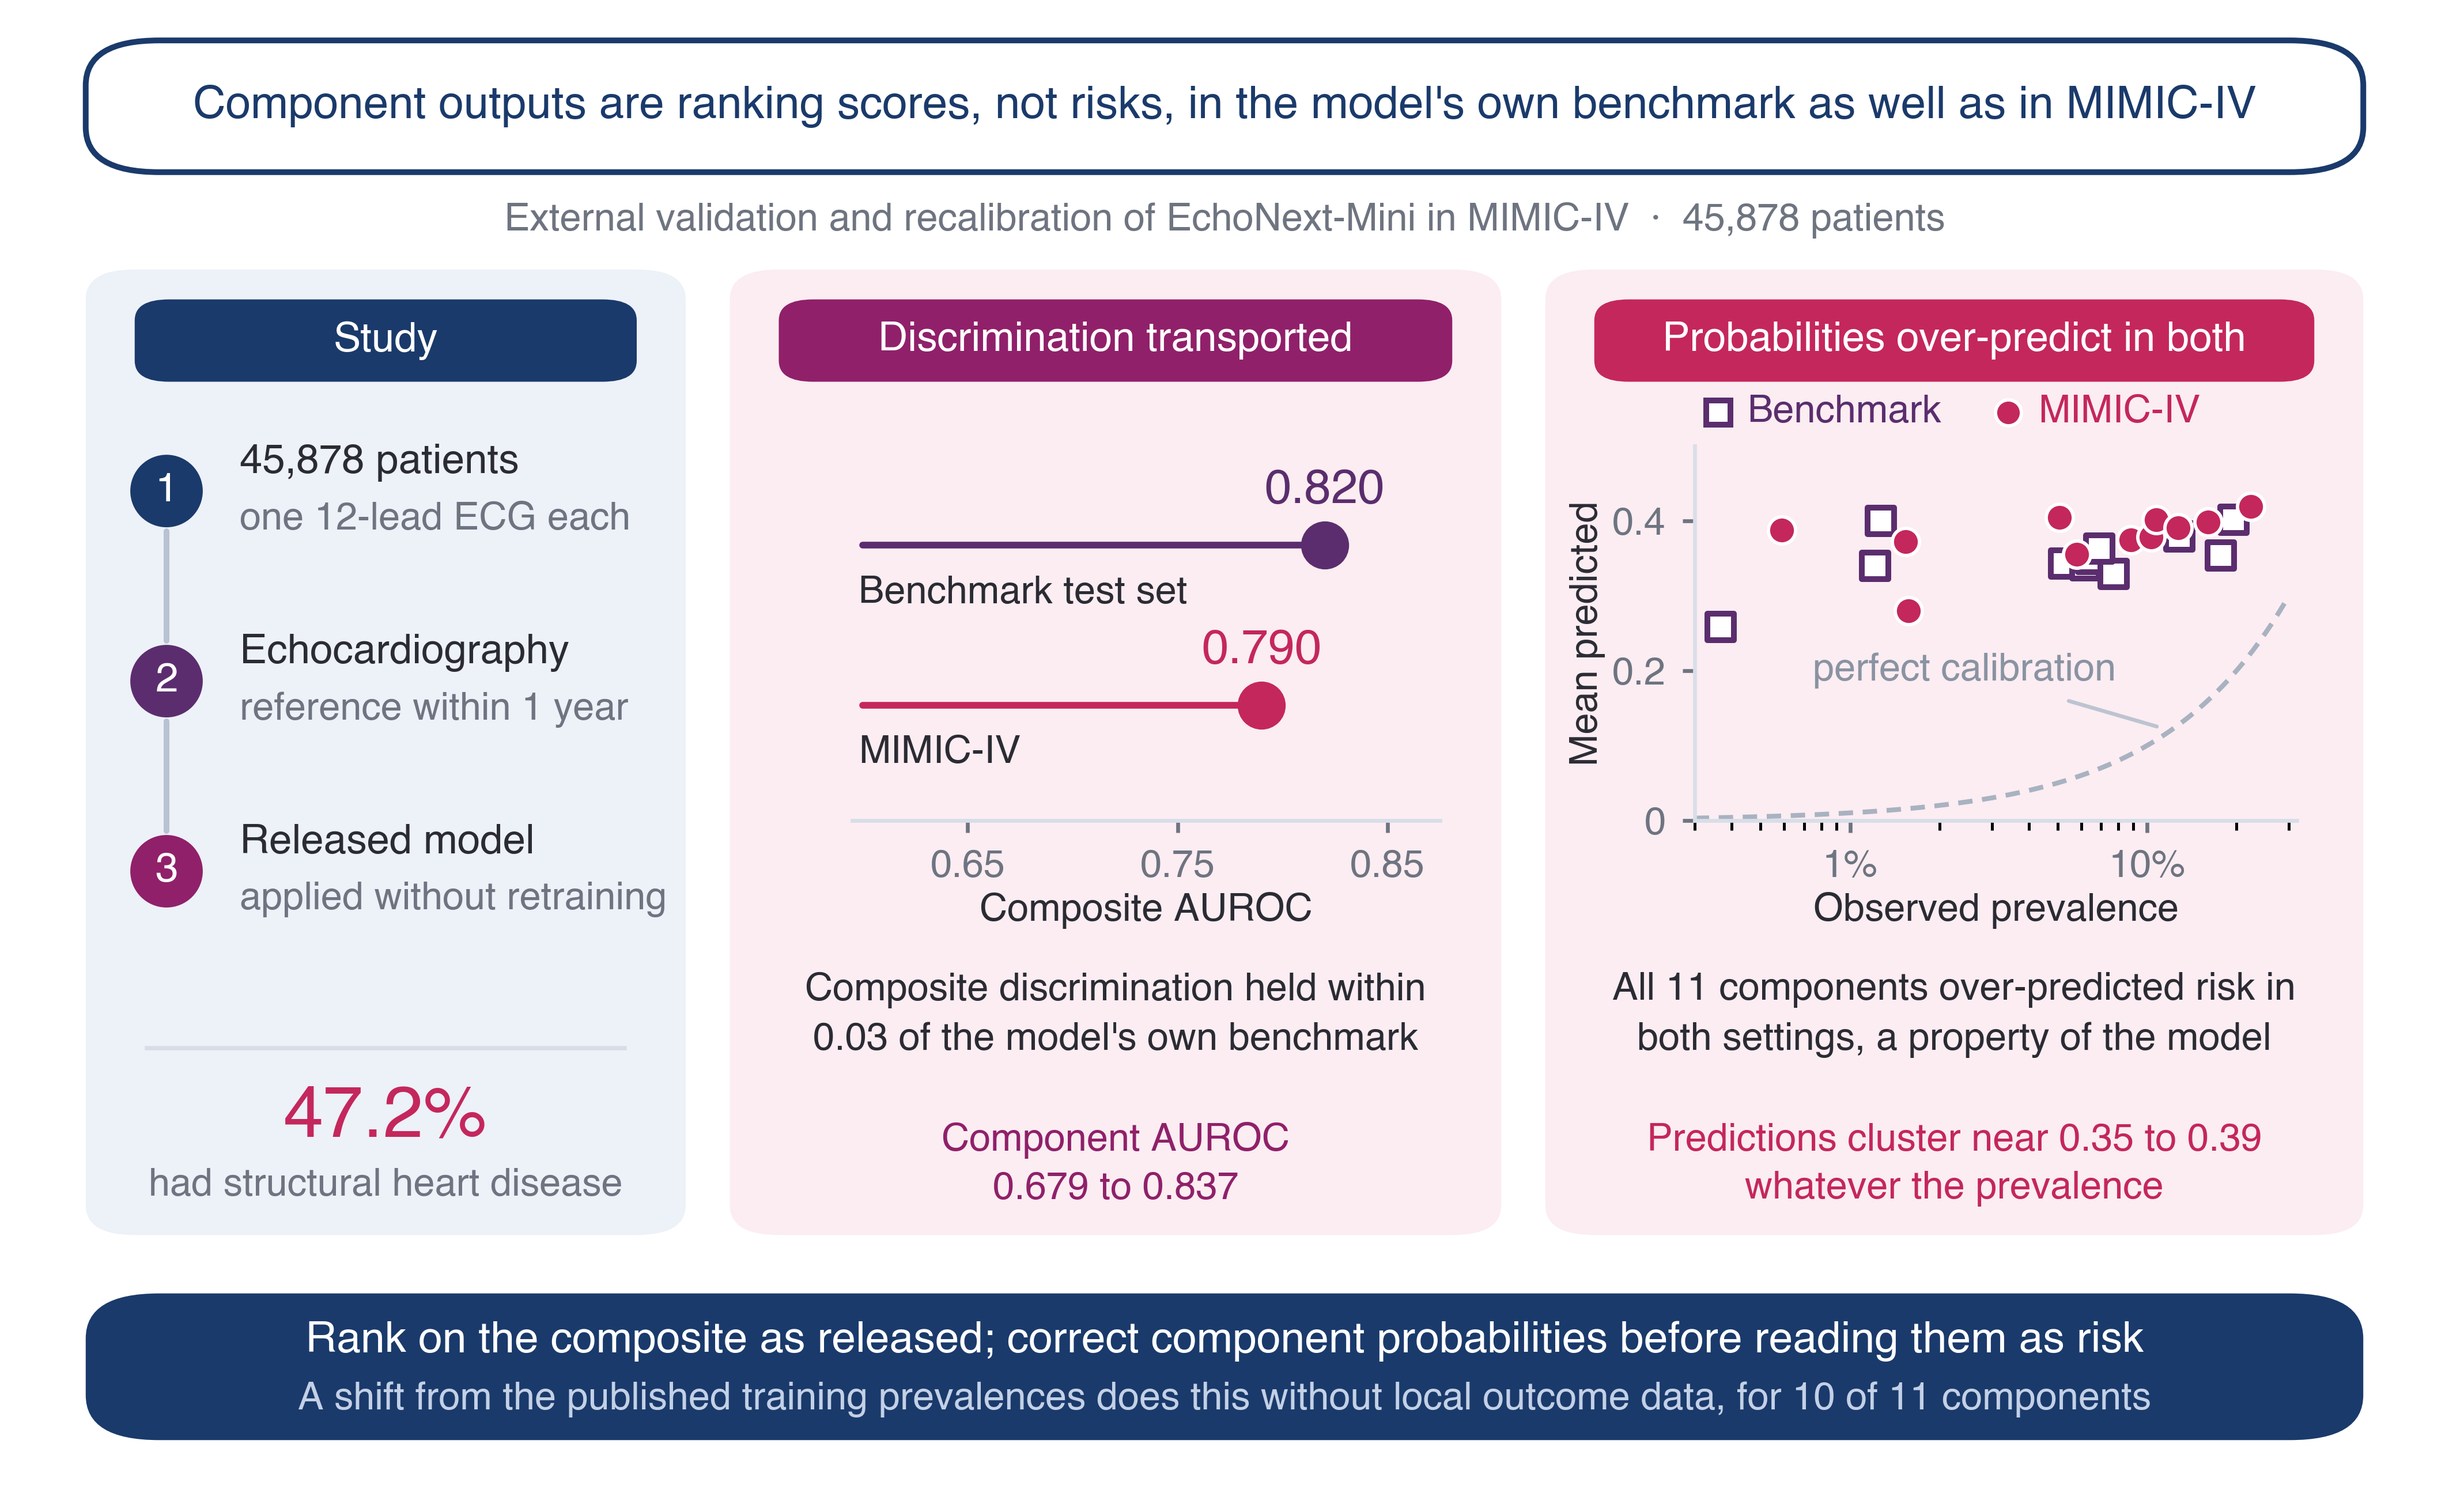
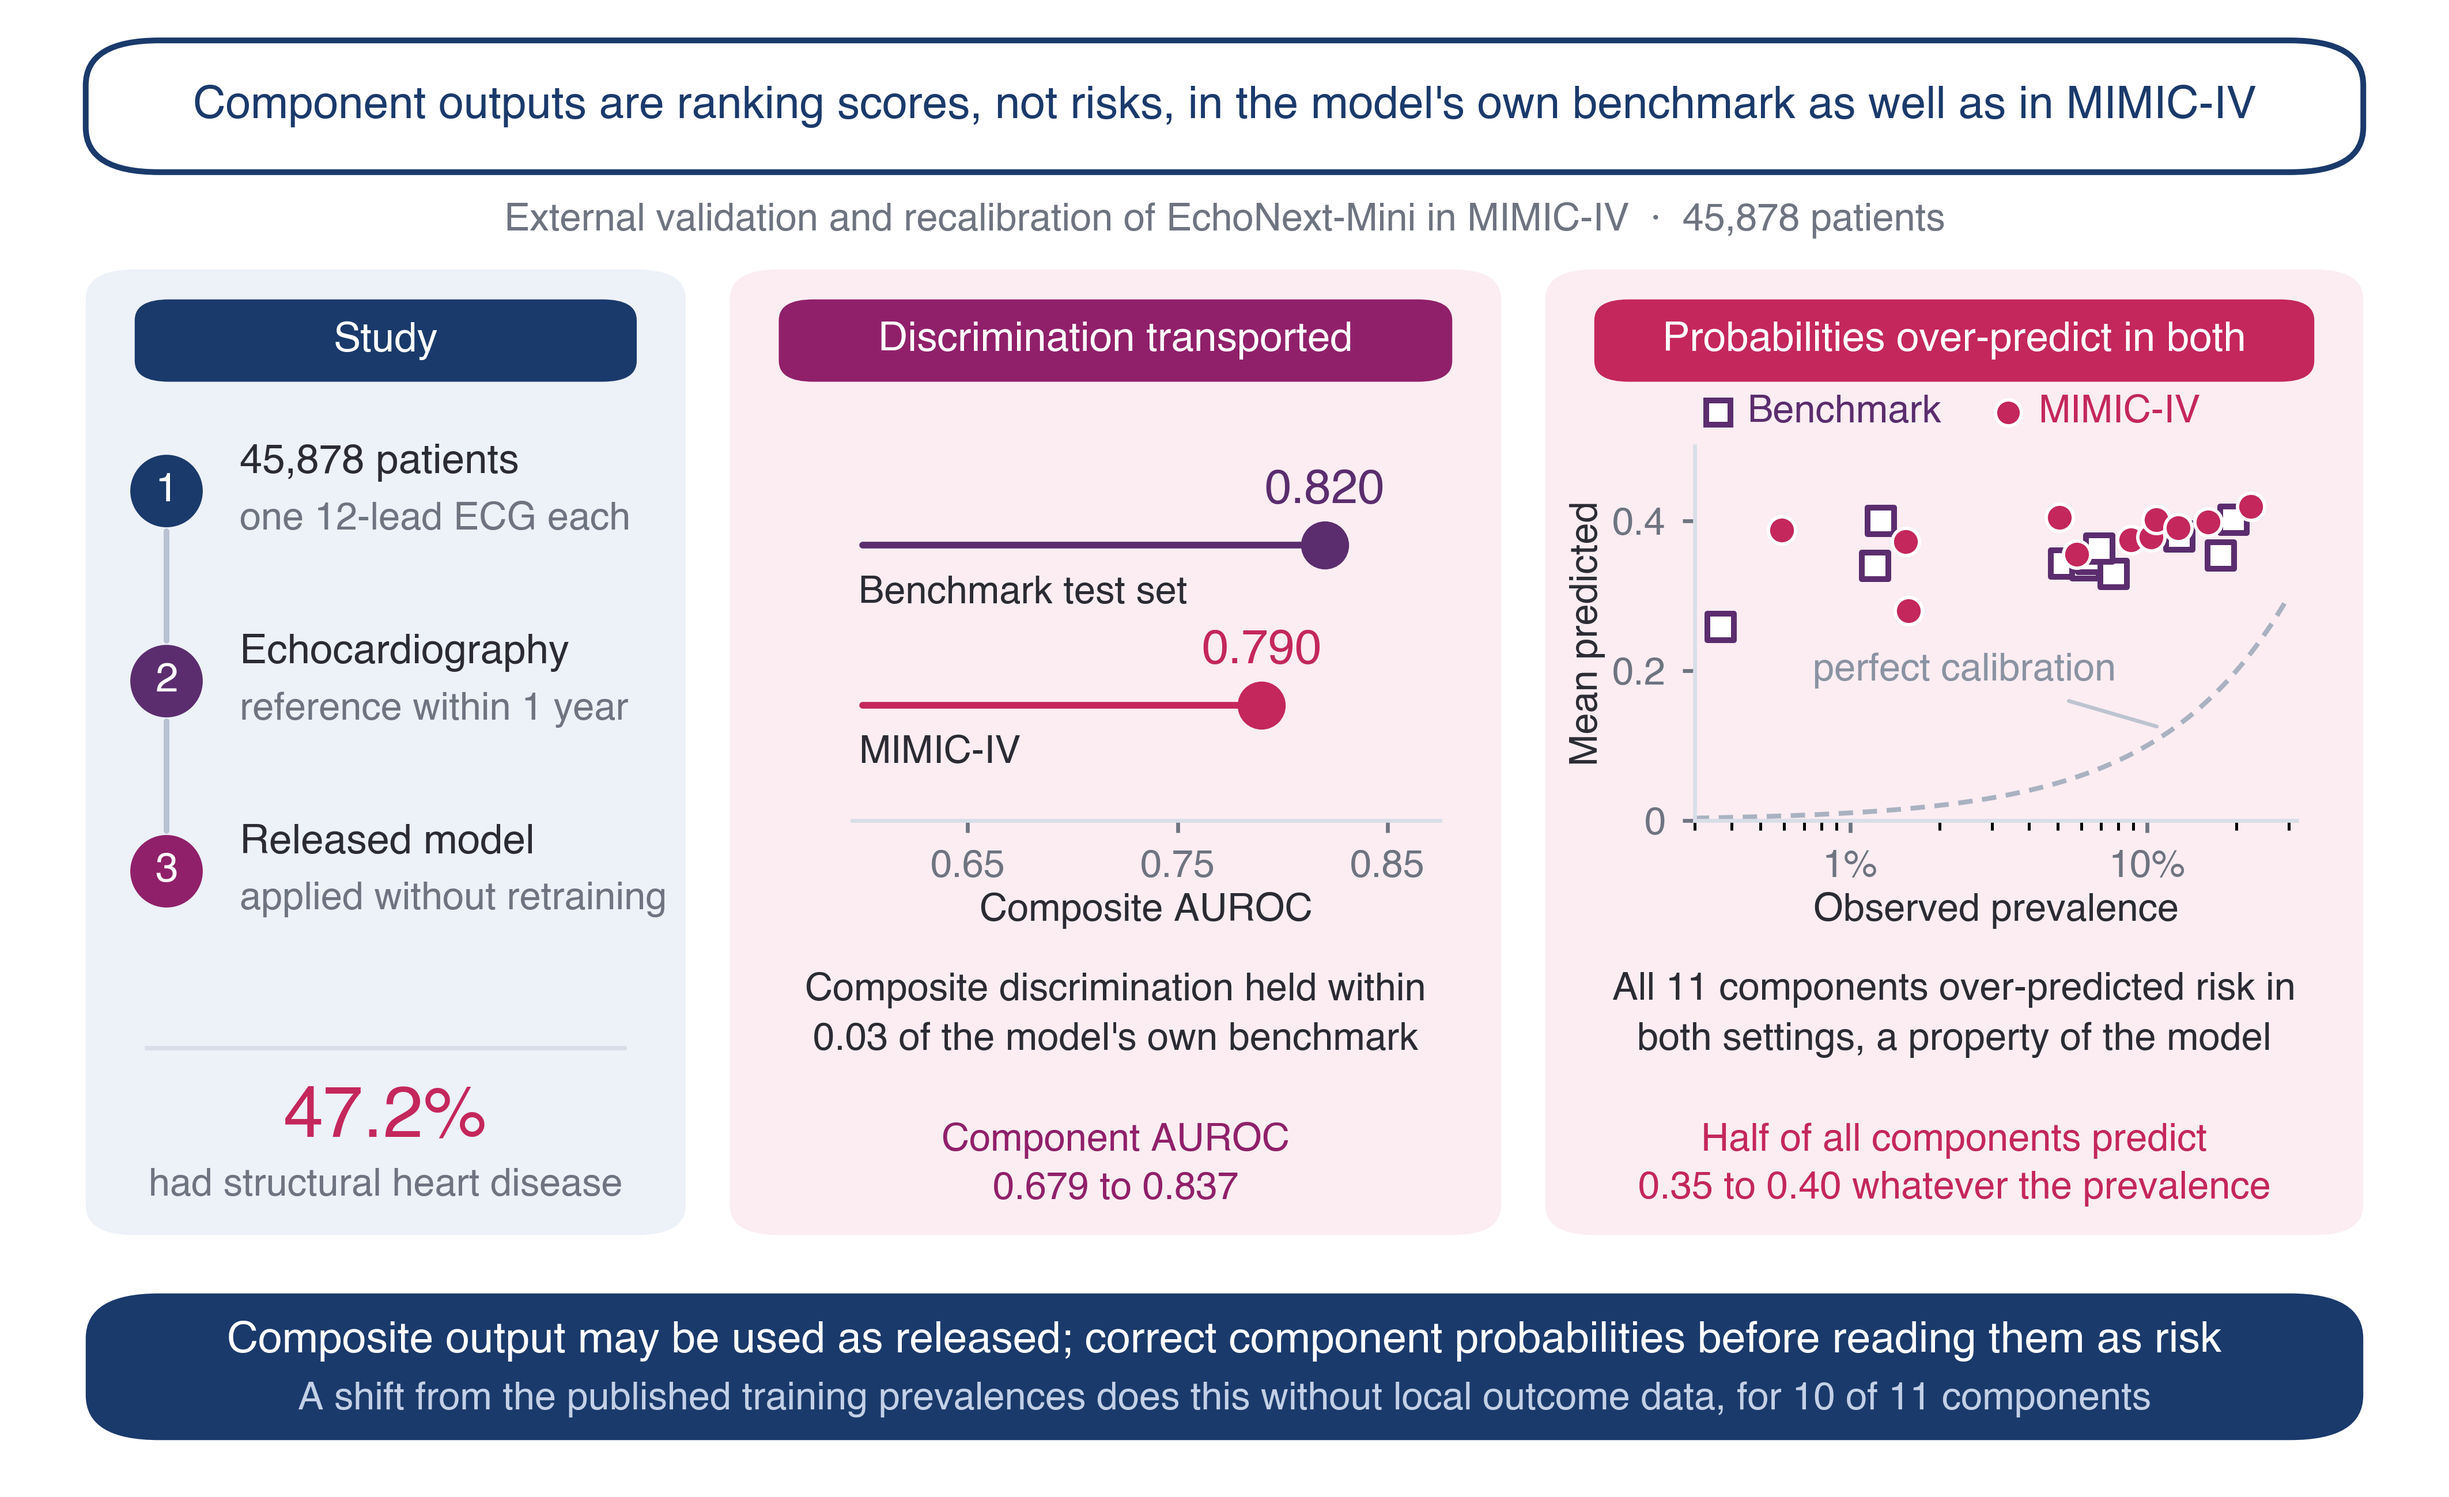
Refine graphical abstract wording and add its generated inputs

Changed region(s): [[0.0932, 0.873, 0.9007, 0.9042], [0.6833, 0.7483, 0.9318, 0.8106]]

diff --git a/code/figures/build_graphical_abstract.py b/code/figures/build_graphical_abstract.py
@@ -147,16 +147,21 @@ ax3.plot([3.4], [0.545], marker="o", ms=5.4, mfc=CRIM, mec="white", mew=0.7, cli
 ax3.text(4.3, 0.545, "MIMIC-IV", fontsize=8, color=CRIM, va="center", clip_on=False)
 fig.text(0.798, 0.322, f"All {S['n_components']} components over-predicted risk in\nboth settings, "
          f"a property of the model", ha="center", va="center", fontsize=8, color=INK, linespacing=1.5)
-fig.text(0.798, 0.222, f"Predictions cluster near {min(med_b, med_m):.2f} to {max(med_b, med_m):.2f}"
-         f"\nwhatever the prevalence", ha="center", va="center", fontsize=8, color=CRIM,
-         fontweight="bold", linespacing=1.45)
+# A stated fraction is checkable where "cluster near" is not: exactly 11 of the 22 component
+# points, across both settings, fall between 0.35 and 0.40.
+inband = int(((both.mean_pred >= 0.35) & (both.mean_pred <= 0.40)).sum())
+frac = "Half" if inband * 2 == len(both) else f"{inband} of {len(both)}"
+fig.text(0.798, 0.222, f"{frac} of all components predict\n0.35 to 0.40 whatever the prevalence",
+         ha="center", va="center", fontsize=8, color=CRIM, fontweight="bold", linespacing=1.45)
 
 # ---- takeaway. States what a reader should DO; the mechanism sits on the second line.
 fig.patches.append(FancyBboxPatch((0.035, 0.038), 0.93, 0.098,
                    boxstyle="round,pad=0,rounding_size=0.030", transform=T,
                    facecolor=NAVY, edgecolor="none", zorder=3))
-fig.text(0.5, 0.104, "Rank on the composite as released; correct component probabilities before "
-         "reading them as risk", ha="center", va="center", color="white", fontsize=9,
+# The composite is near-calibrated (CIL +0.028, slope 0.93, Brier skill +0.249), so it may be
+# read as a probability, not only ranked on. Saying "rank" would discard that result.
+fig.text(0.5, 0.104, "Composite output may be used as released; correct component probabilities "
+         "before reading them as risk", ha="center", va="center", color="white", fontsize=9,
          fontweight="bold", zorder=4)
 fig.text(0.5, 0.065, f"A shift from the published training prevalences does this without local "
          f"outcome data, for {S['n_corrected']} of {S['n_components']} components",
